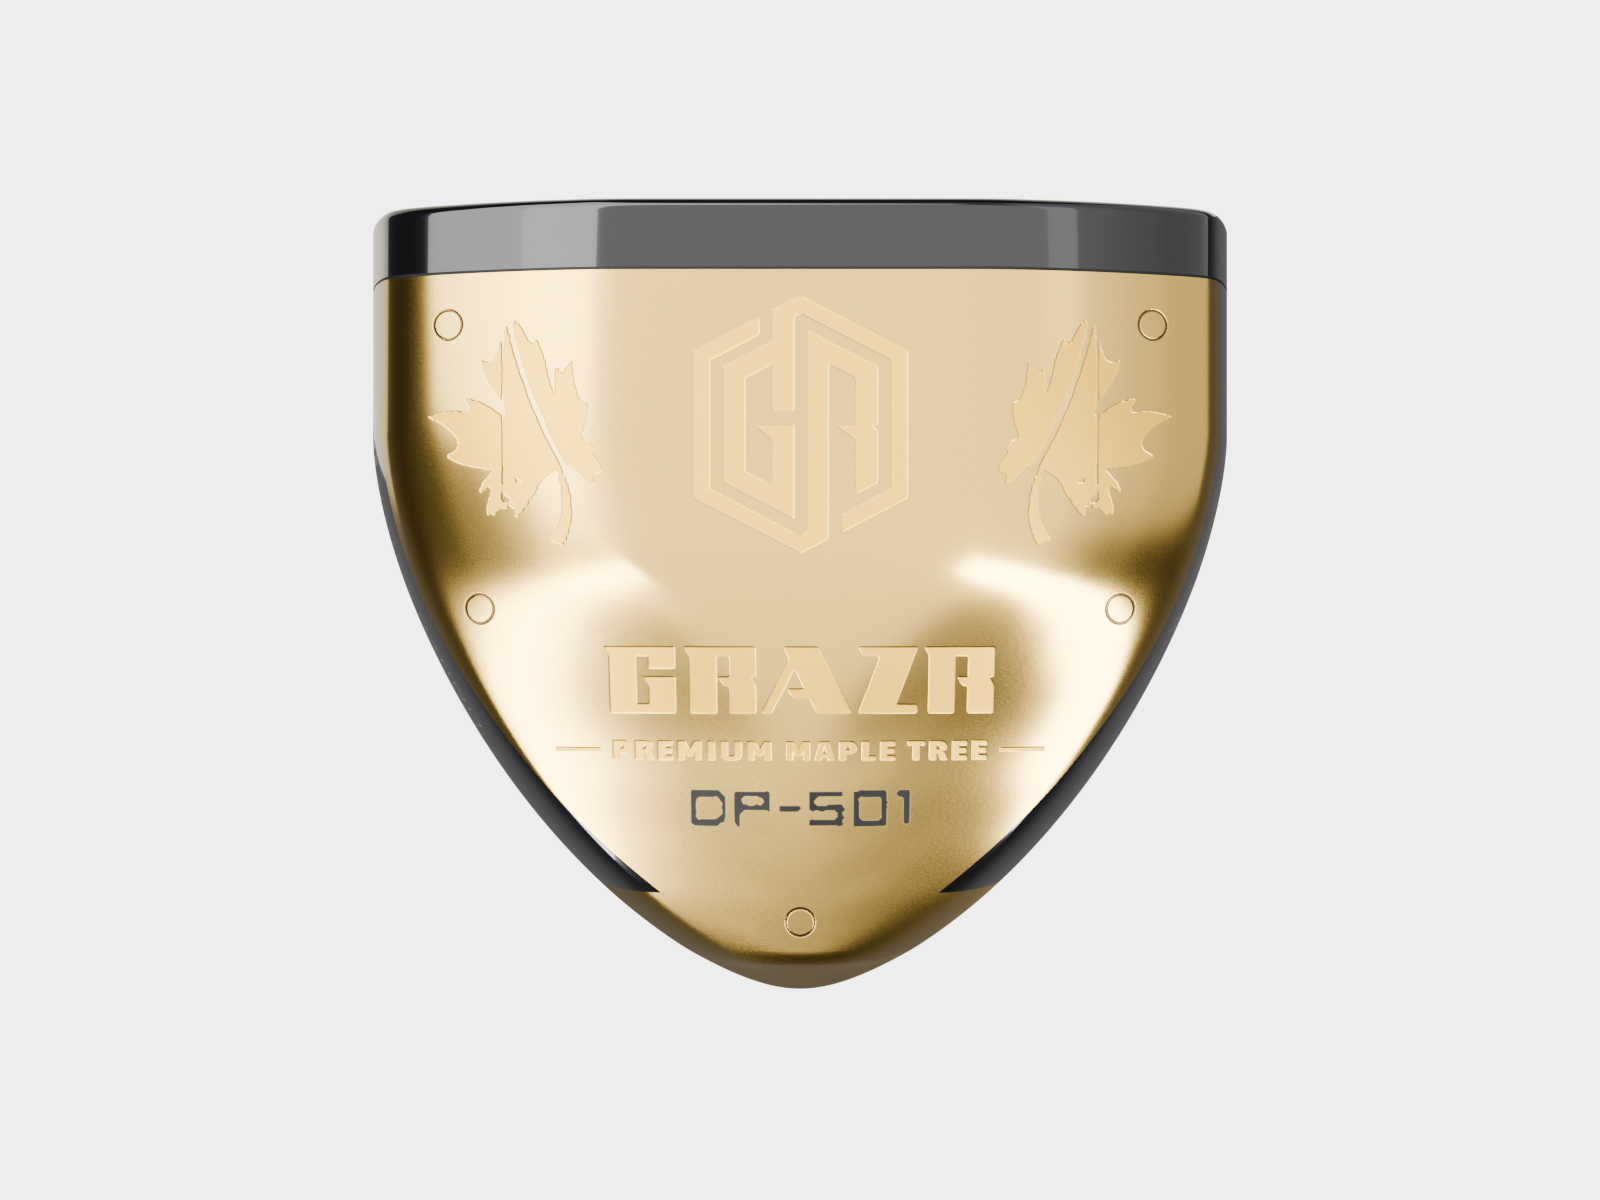
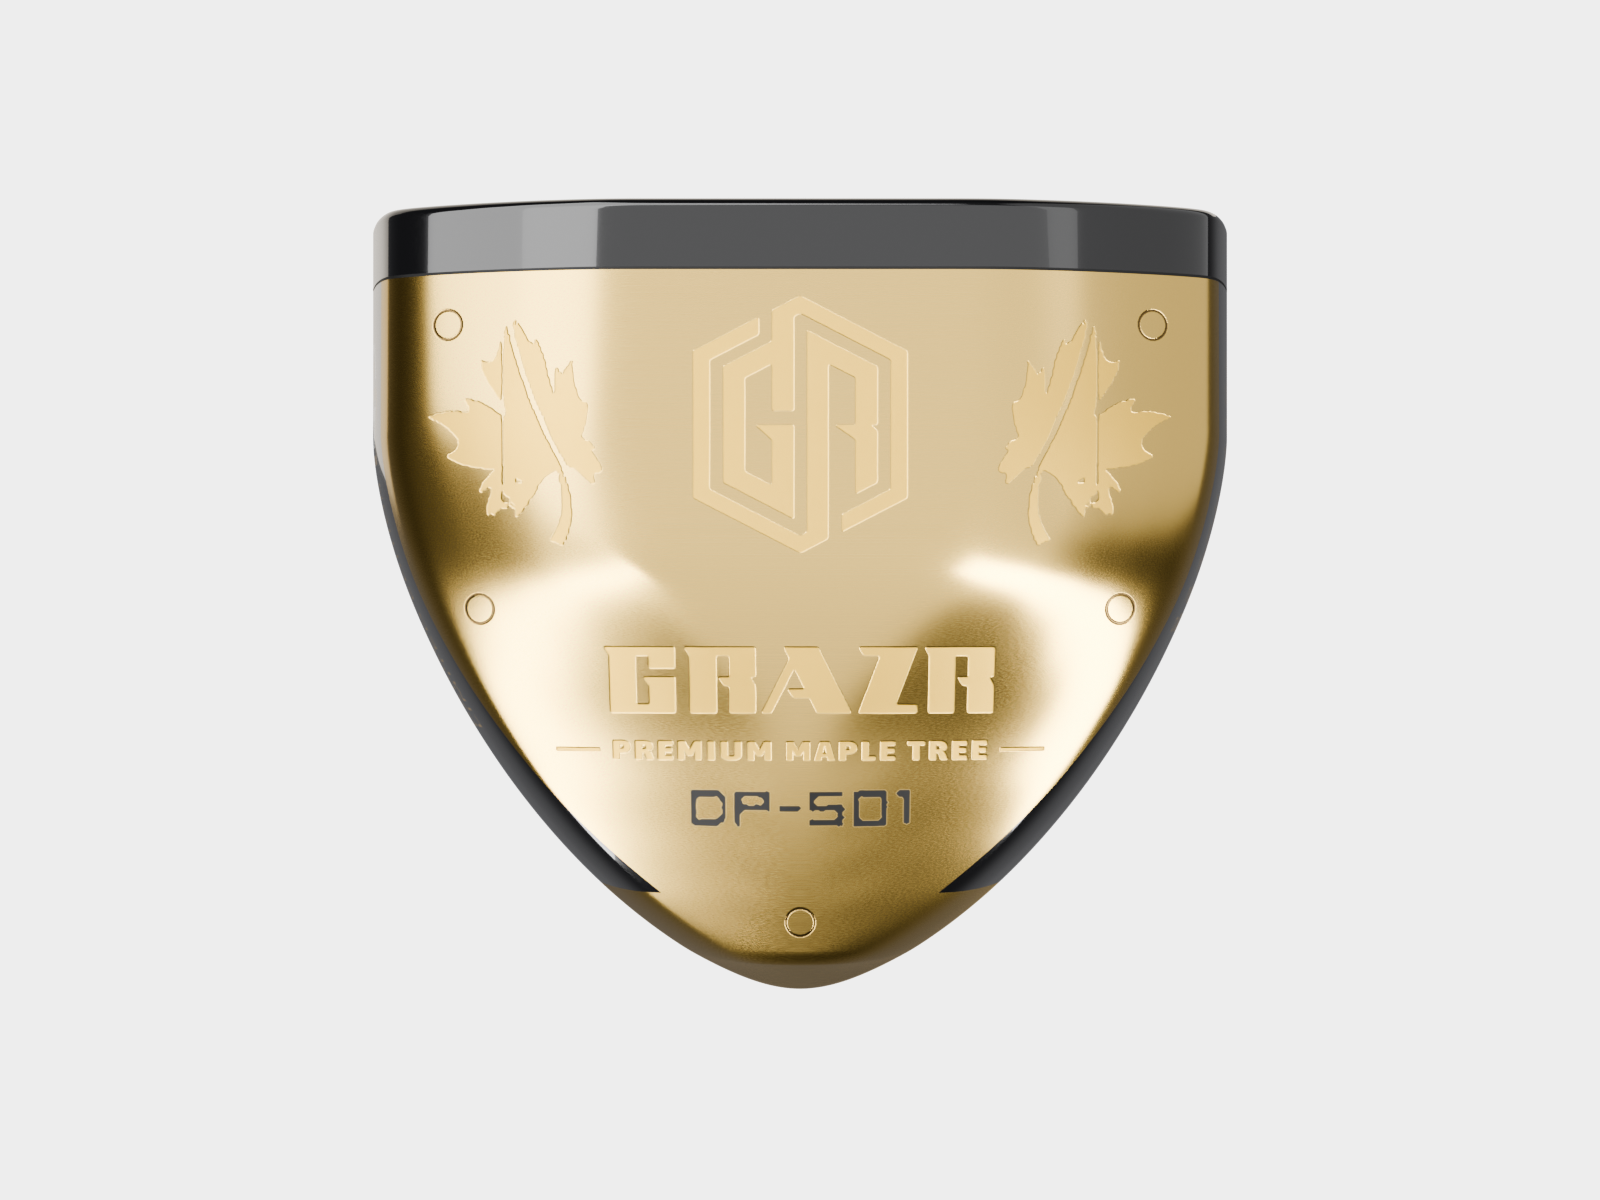
DP-501: deeper engraving gold; sole re-render
Claude-Session: https://claude.ai/code/session_01GCpT9mK9AWHbd4r5LVPQn2

diff --git a/3d-model-dp501/build_dp501.py b/3d-model-dp501/build_dp501.py
@@ -535,7 +535,7 @@ def brass(name, engraved=False, rough_range=(0.17, 0.25)):
         spark = node(nt, "ShaderNodeTexVoronoi", Scale=9.0)               # sand-blast grains (object mm)
         spark.feature = "F1"
         nt.links.new(coord.outputs["Object"], spark.inputs["Vector"])
-        color = mix_rgb(nt, e.outputs["Color"], BRASS, (0.96, 0.64, 0.13, 1))   # sand-blasted: deeper, more yellow gold
+        color = mix_rgb(nt, e.outputs["Color"], BRASS, (0.74, 0.46, 0.07, 1))   # sand-blasted: deeper, more yellow gold
         color = mix_rgb(nt, r_.outputs["Color"], color, (0.18, 0.12, 0.05, 1))
         color = mix_rgb(nt, k.outputs["Color"], color, (0.012, 0.012, 0.012, 1))
         sr = node(nt, "ShaderNodeMapRange", **{"To Min": 0.38, "To Max": 0.62})
